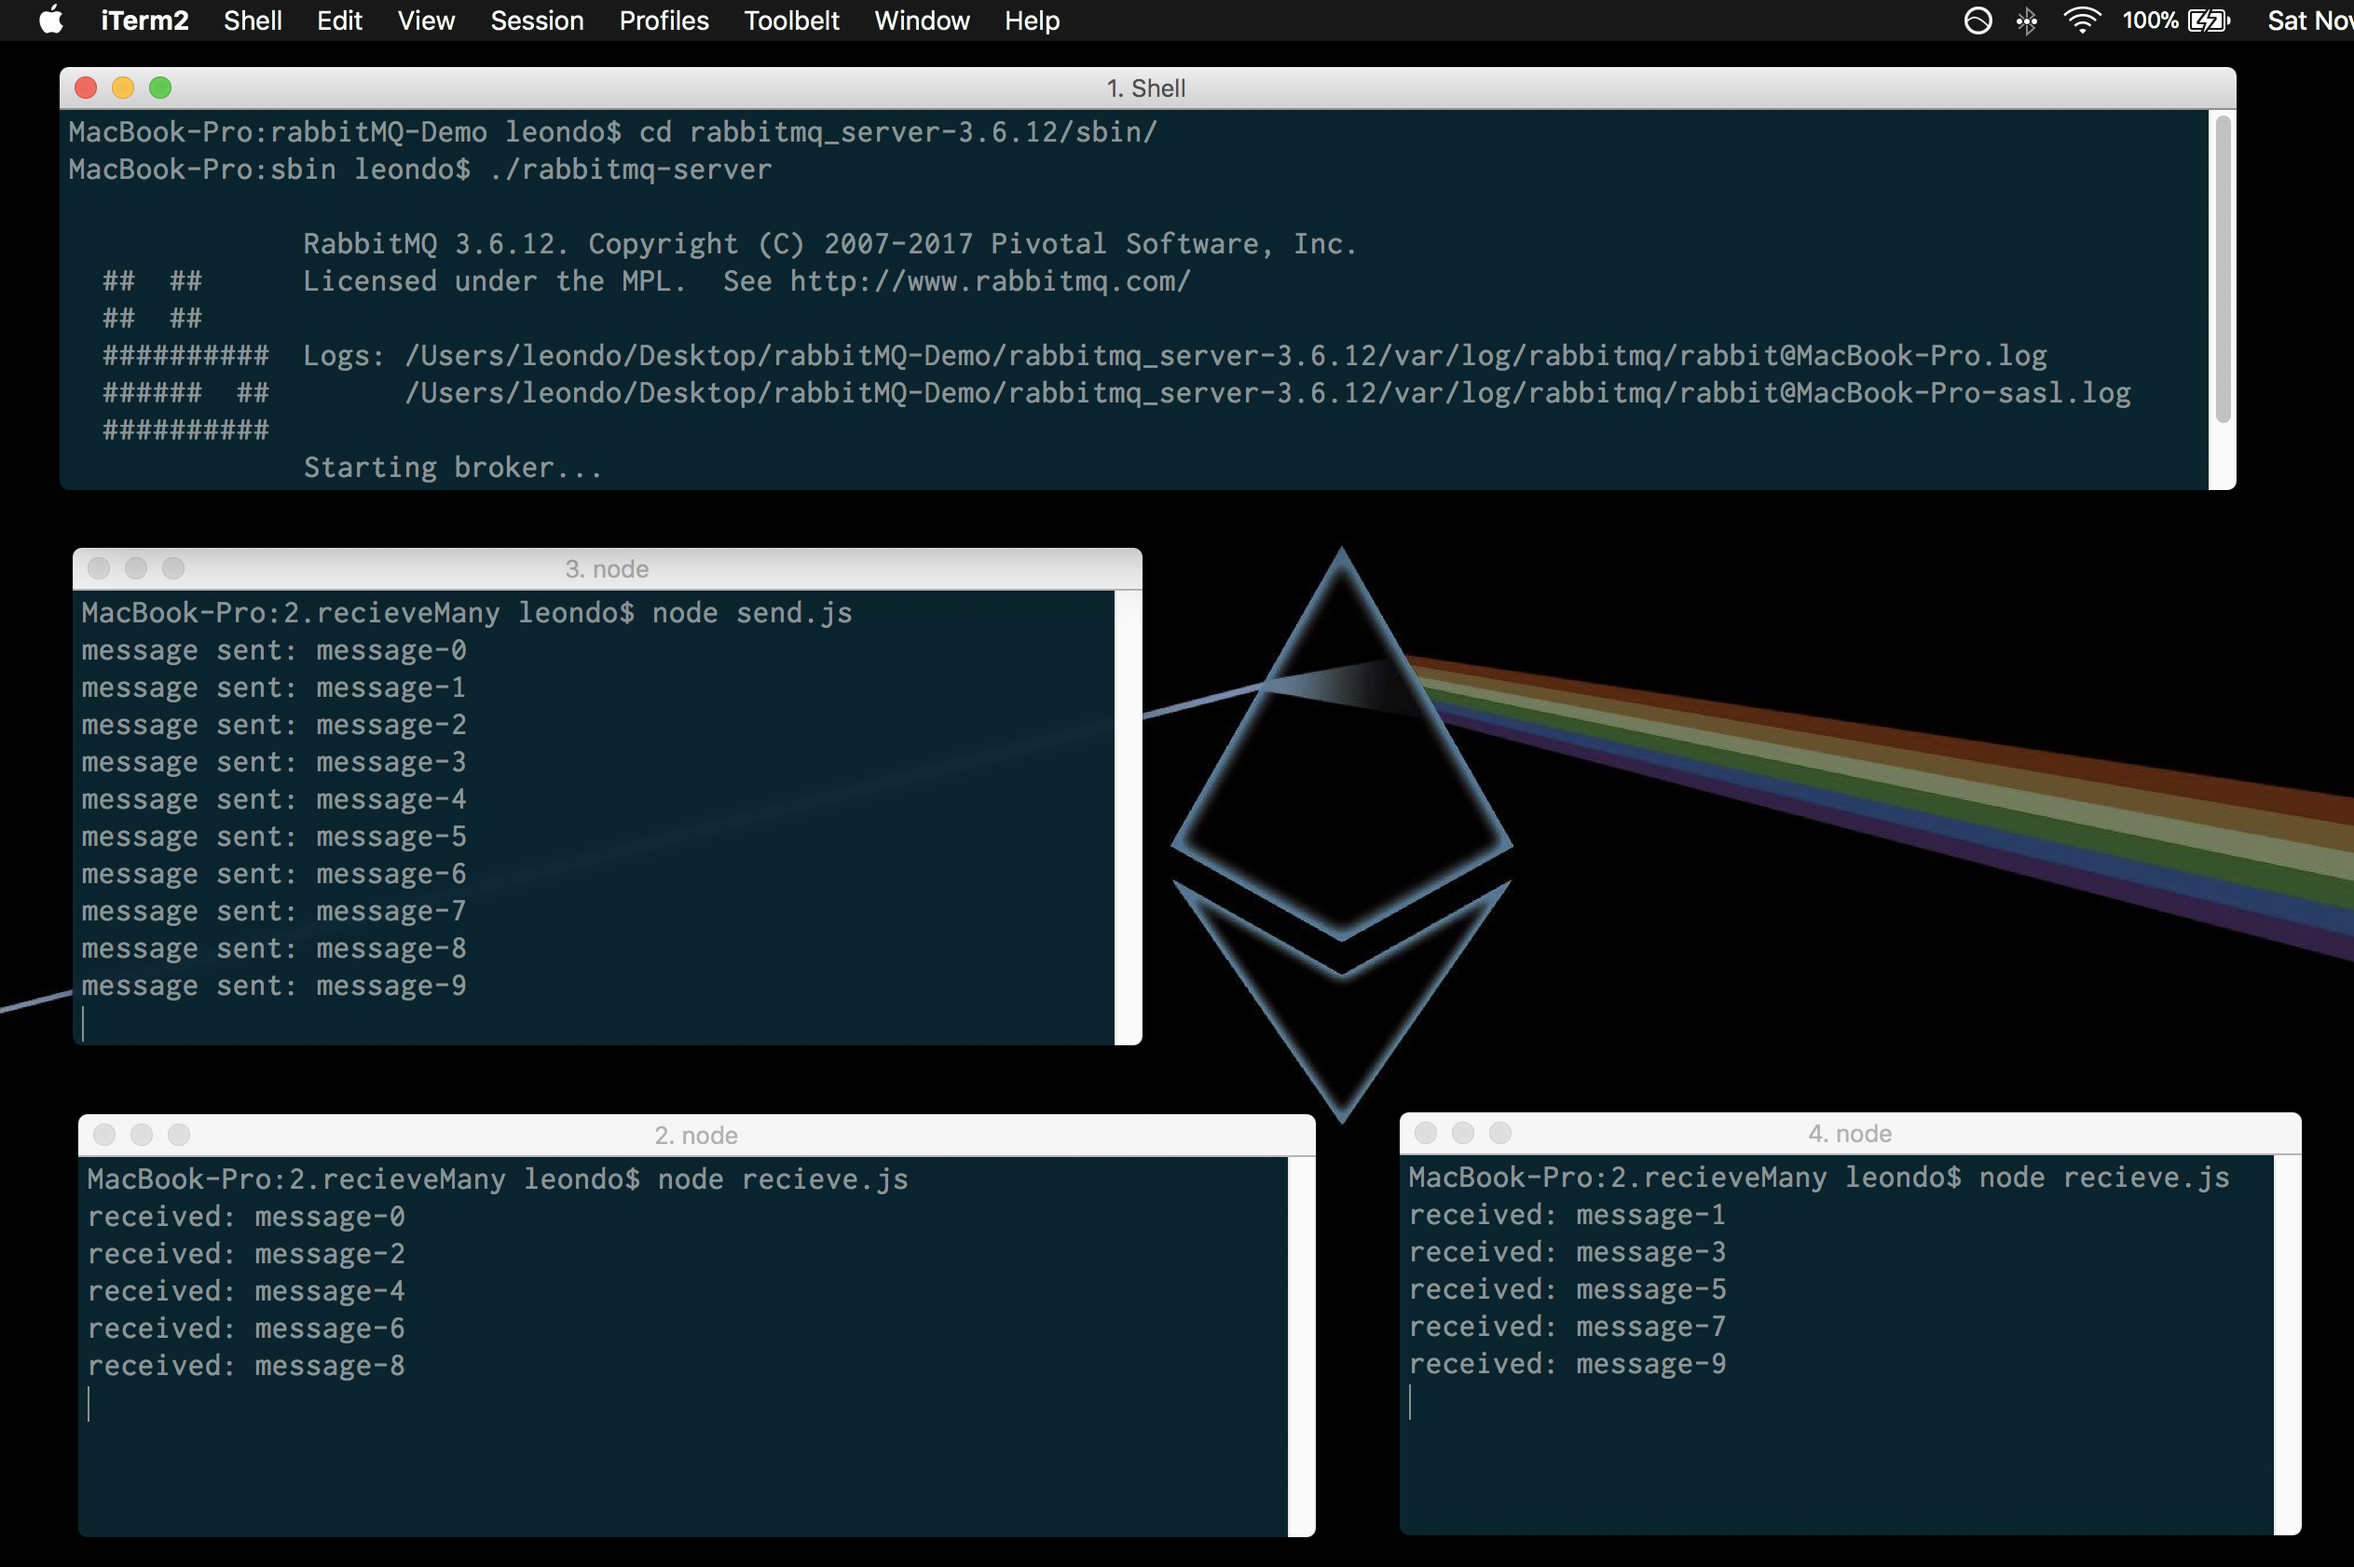
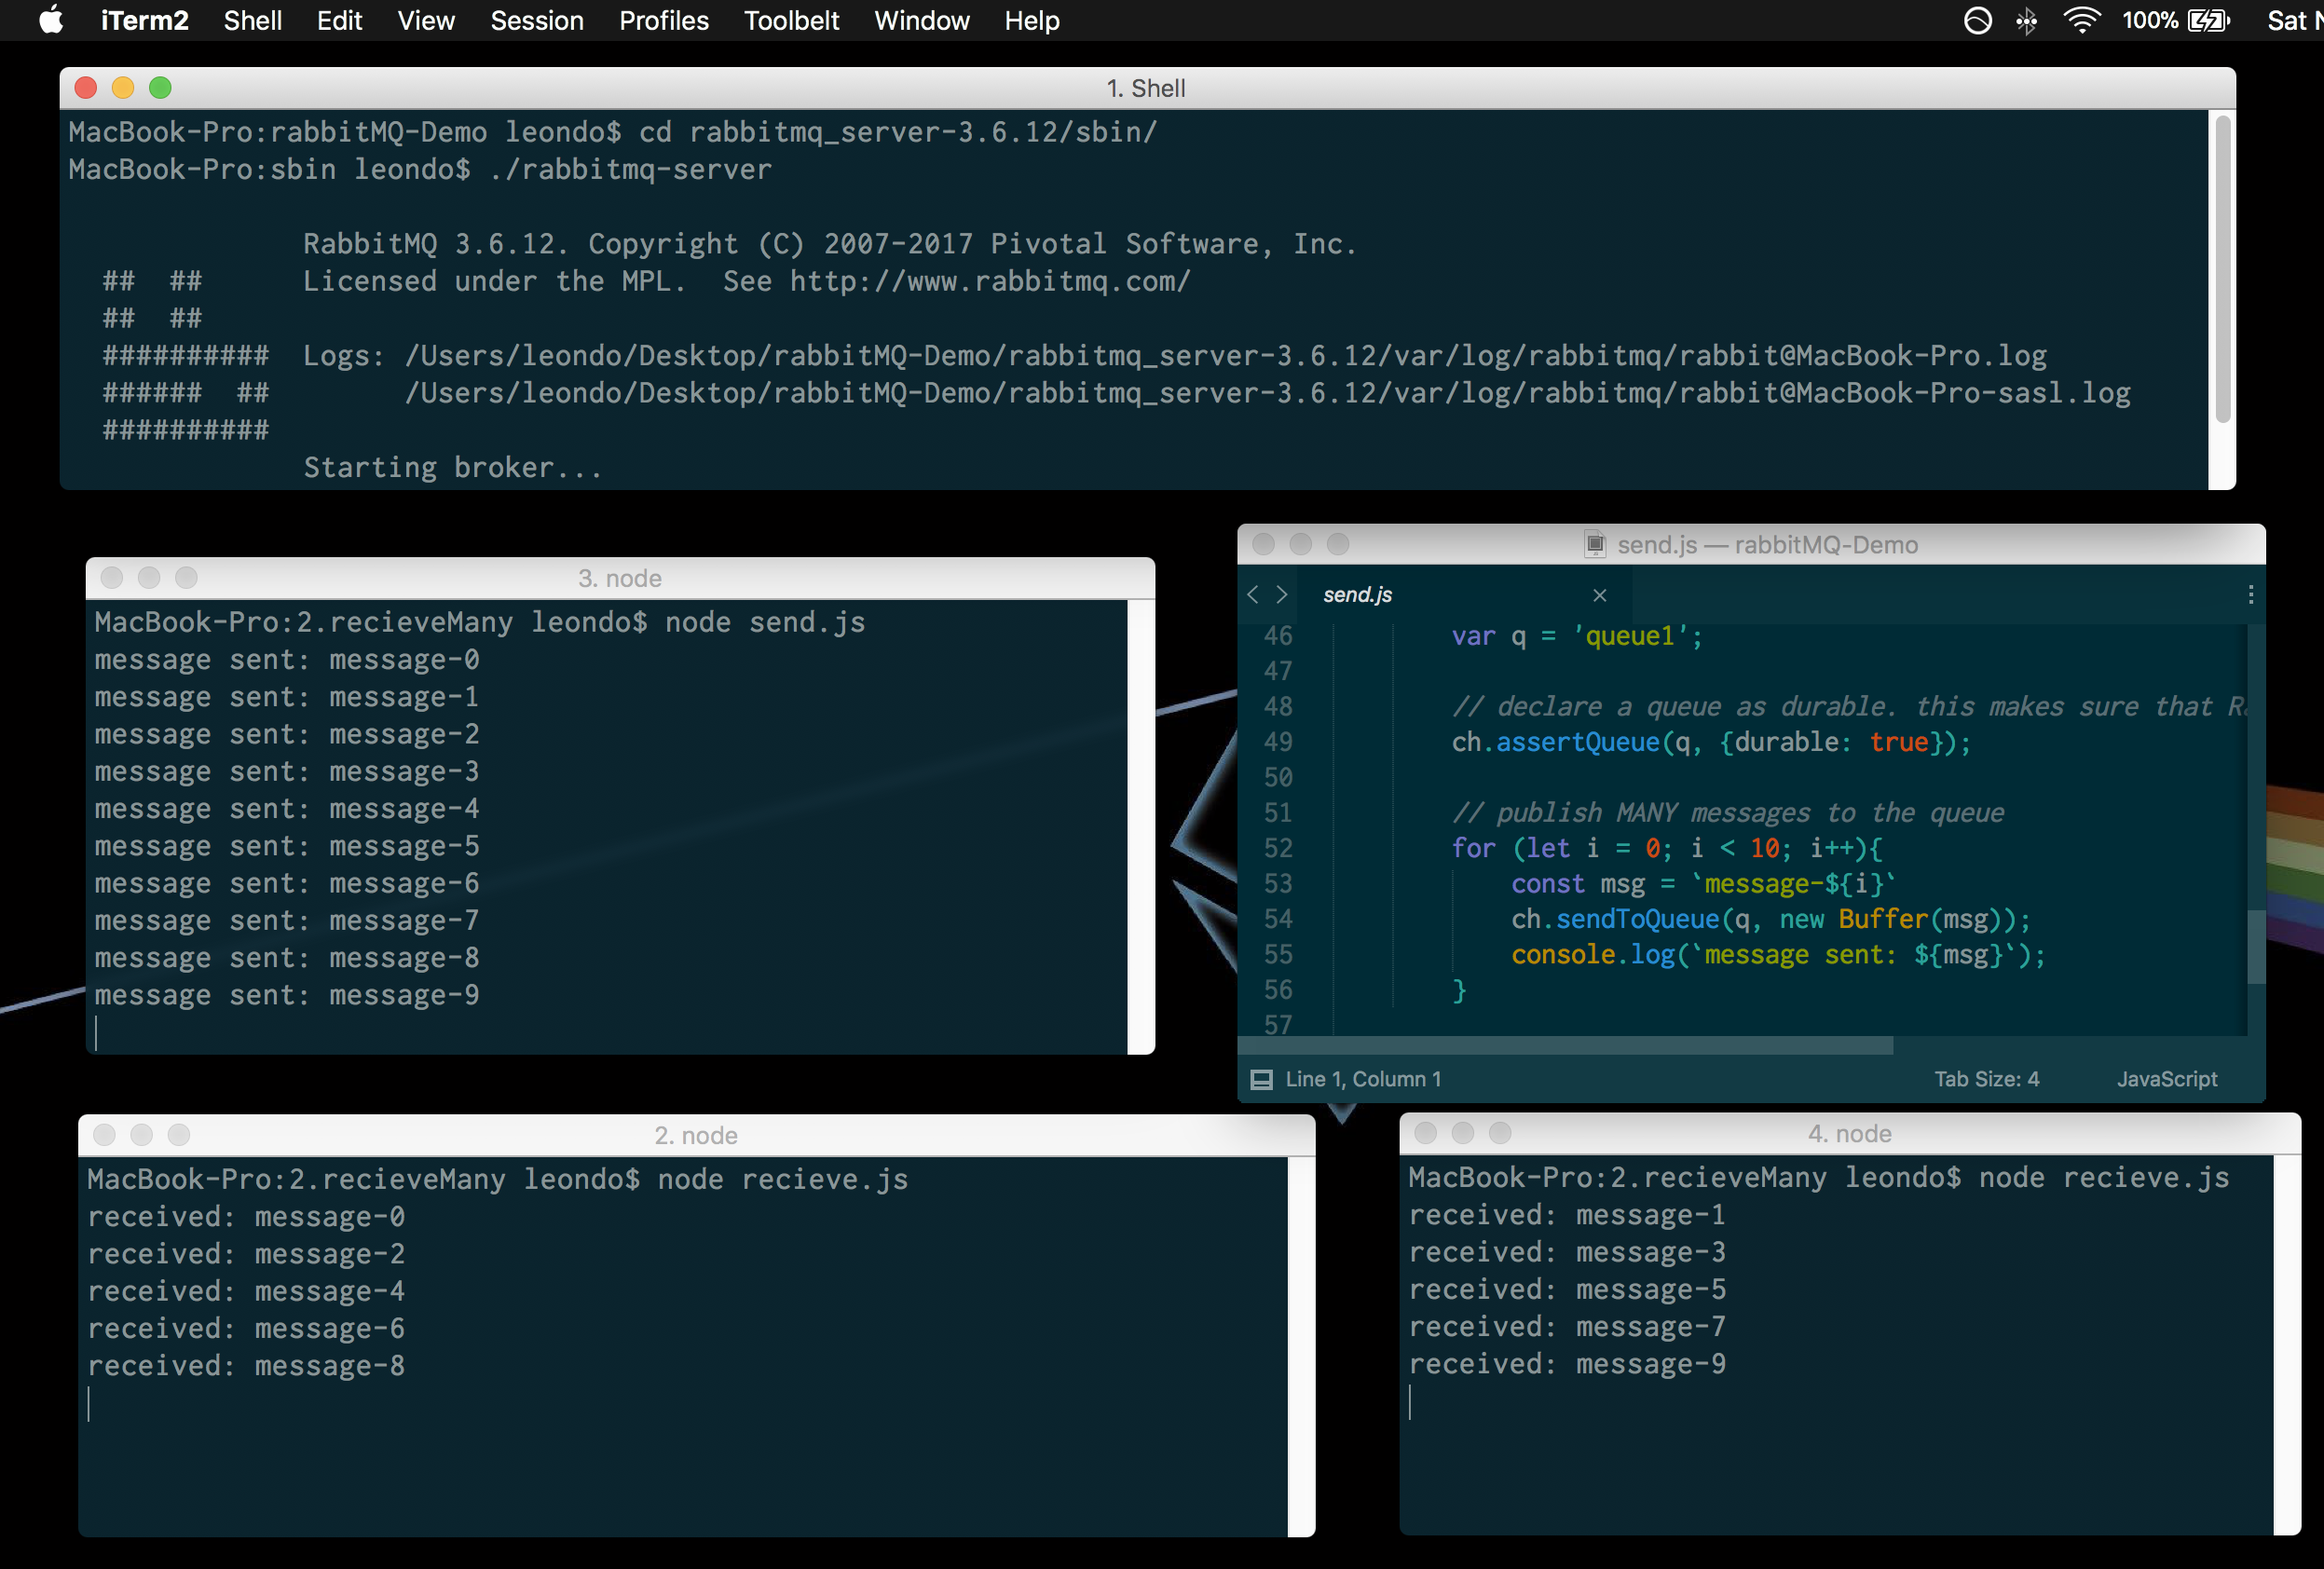
imoverit

diff --git a/README.md b/README.md
@@ -18,3 +18,5 @@
 ### recieve message (open multiple console)
 	cd 1.recieveOne
 	node recieve.js
+
+![Alt text](./demo.png)
